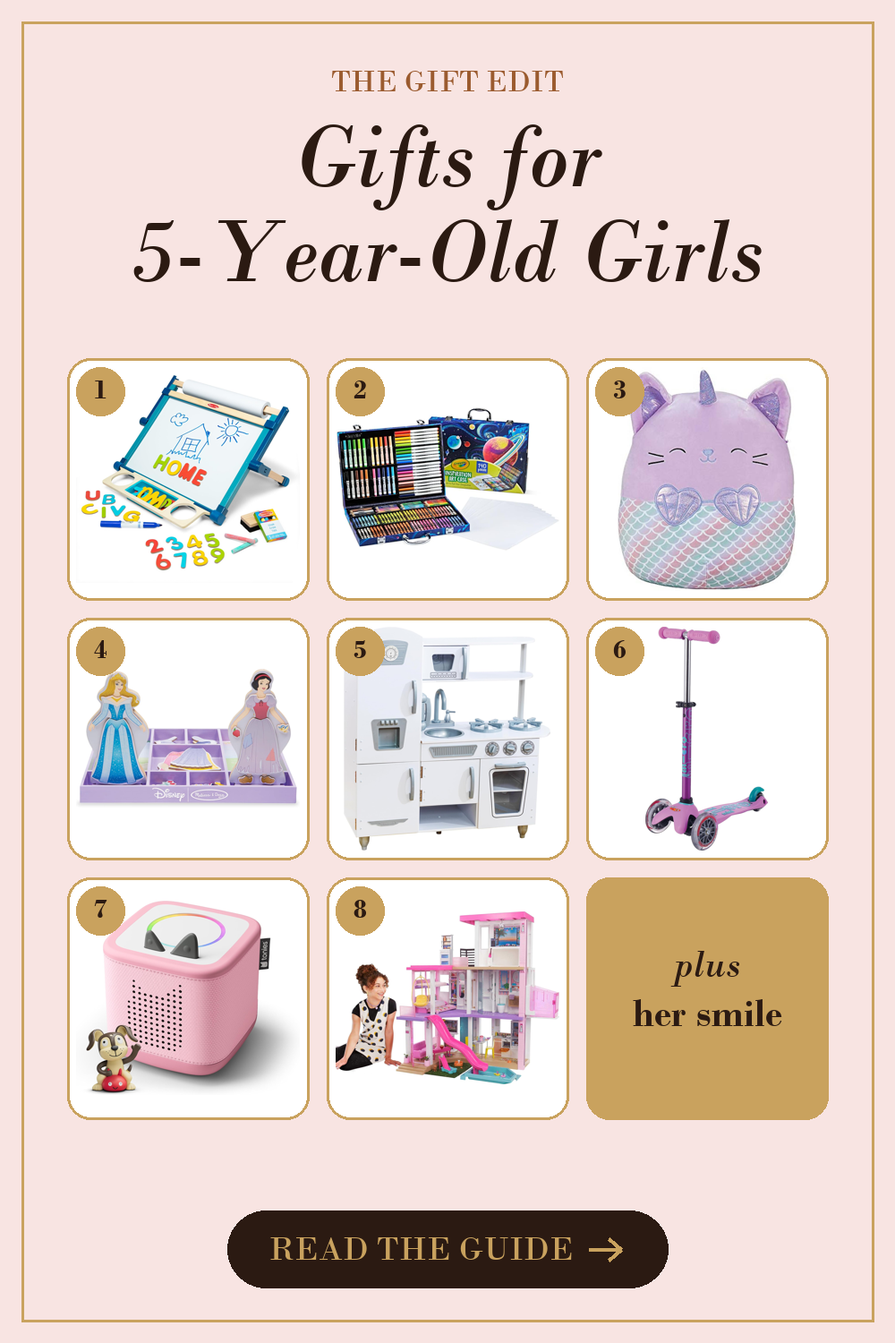
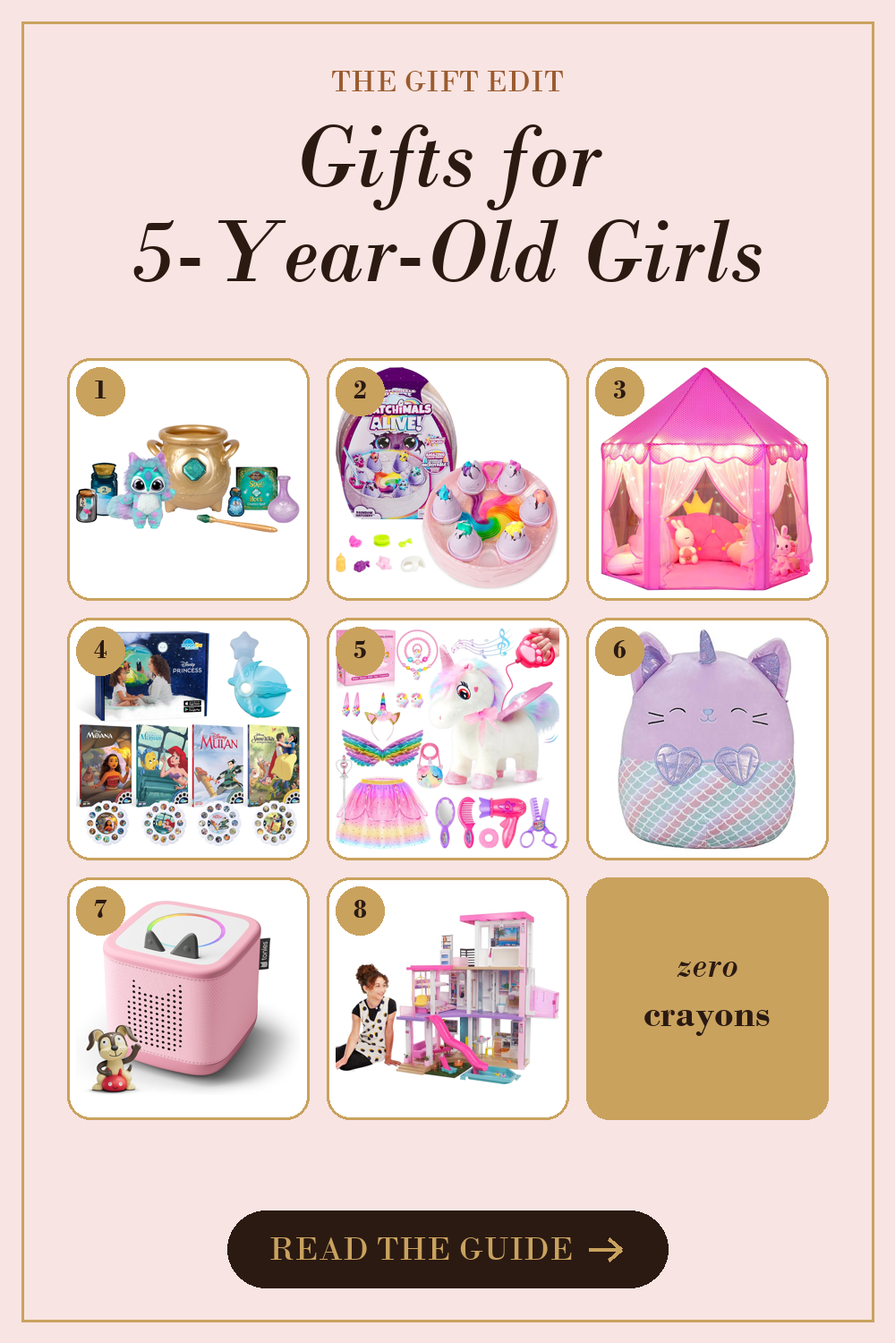
Rewrite 5-year-old gift guide: wow-factor picks, sassier voice

diff --git a/blog/gifts-for-5-year-old-girls.html b/blog/gifts-for-5-year-old-girls.html
@@ -1,1 +1,1 @@
-<!doctype html><html lang="en"><head><meta charset="utf-8"><meta name="viewport" content="width=device-width,initial-scale=1"><title>Best Gifts for 5-Year-Old Girls: 8 Picks Parents Won&#x27;t Hate | Looks Like Luxe</title><meta name="description" content="The best gifts for 5-year-old girls, from art easels to Squishmallows to a dreamhouse, curated with sparkle, sarcasm, and zero glitter regrets."><link rel="canonical" href="https://lookslikeluxe.netlify.app/blog/gifts-for-5-year-old-girls.html"><meta property="og:title" content="Best Gifts for 5-Year-Old Girls: 8 Picks Parents Won&#x27;t Hate | Looks Like Luxe"><meta property="og:description" content="The best gifts for 5-year-old girls, from art easels to Squishmallows to a dreamhouse, curated with sparkle, sarcasm, and zero glitter regrets."><meta property="og:type" content="article"><meta property="og:image" content="https://lookslikeluxe.netlify.app/pins/gifts-5yo-v1.png"><link rel="preconnect" href="https://fonts.googleapis.com"><link rel="preconnect" href="https://fonts.gstatic.com" crossorigin><link href="https://fonts.googleapis.com/css2?family=Cormorant+Garamond:ital,wght@0,400;0,600;1,400&family=Montserrat:wght@500;600&family=Playfair+Display:ital,wght@0,500;1,500&display=swap" rel="stylesheet"><link rel="stylesheet" href="/blog.css"></head><body class="blog"><div class="b-disc">As an Amazon Associate I earn from qualifying purchases.</div><header class="b-nav"><a class="b-brand" href="/">Looks Like <em>Luxe</em></a><nav><a href="/blog/">The Edit</a><a href="/l/gifts-for-her">Gifts</a><a href="/index.html#signup">Free Guide</a></nav></header><section class="b-hero"><div class="b-kicker">The Gift Edit</div><h1>Gifts for 5-Year-Old Girls (That Parents Won&#x27;t Secretly Hate)</h1><div class="b-rule"></div><div class="b-by">By Looks Like Luxe &nbsp;&middot;&nbsp; October 5, 2026 &nbsp;&middot;&nbsp; 5 min read</div></section><main class="b-wrap"><div class="b-note"><strong>Affiliate disclosure:</strong> As an Amazon Associate I earn from qualifying purchases, which means if you tap a link and buy, I may earn a small commission at no extra cost to you. Prices and availability live on Amazon.</div><div class="b-intro"><p>I couldn&#x27;t help but wonder: when did buying a gift for a five-year-old become a competitive sport?</p><p>Because here is the situation. Five is the age where she has opinions, a vocabulary, a very specific favorite color that changes hourly, and absolutely no concept of money. She wants a unicorn. She also wants it to be a mermaid. And the party is Saturday.</p><p>So, as your personal gift stylist with a dramatic streak and an Amazon tab problem, I did the research so you don&#x27;t have to. Eight gifts. Every one has 4.5 stars or higher and hundreds to thousands of reviews at the time I checked. All of them are the kind of present a grown woman could look at and think, honestly, I might want that too.</p><p>Pour yourself something chilled. Let&#x27;s shop.</p></div><div class="b-sep">&#9830; &#9830; &#9830;</div><article class="b-prod"><p class="b-num">01</p><h2>Melissa &amp; Doug Deluxe Double-Sided Magnetic Tabletop Easel</h2><span class="b-best">Best for: The little artist who has already redecorated the fridge</span><a class="b-photo" href="https://www.amazon.com/dp/B086WNQRC3?tag=lookslikeluxe-20" target="_blank" rel="sponsored nofollow noopener"><img src="/images/blog/gifts-5yo/01-easel.jpg" alt="Melissa &amp; Doug Deluxe Double-Sided Magnetic Tabletop Easel" loading="lazy"></a><p>Every girl of five is, in her heart, a visionary. Unfortunately, her canvas of choice is usually your wall.</p><p>Enter the tabletop easel: double-sided, magnetic, and designed to give her masterpiece somewhere to live that is not your hallway. Dry-erase on one side, chalk on the other, which means two chances per day to become Picasso.</p><p>Verdict: it&#x27;s the only gift on this list that comes with its own gallery wall.</p><a class="b-btn" href="https://www.amazon.com/dp/B086WNQRC3?tag=lookslikeluxe-20" target="_blank" rel="sponsored nofollow noopener">Shop on Amazon</a></article><article class="b-prod"><p class="b-num">02</p><h2>Crayola Inspiration Art Case Coloring Set, 140pc</h2><span class="b-best">Best for: The kid who colors with the intensity of a CEO</span><a class="b-photo" href="https://www.amazon.com/dp/B00CI6J5JQ?tag=lookslikeluxe-20" target="_blank" rel="sponsored nofollow noopener"><img src="/images/blog/gifts-5yo/02-crayola.jpg" alt="Crayola Inspiration Art Case Coloring Set, 140pc" loading="lazy"></a><p>Some gifts are trends. Others are classics. A giant case of crayons, markers, and colored pencils is, frankly, the little black dress of childhood.</p><p>One hundred forty pieces, crayons and markers and colored pencils, all in one case. It&#x27;s basically a handbag for people who draw rainbows, and she will carry it with the confidence of a woman heading to a board meeting.</p><p>Verdict: unfussy, adored, and impossible to get wrong.</p><a class="b-btn" href="https://www.amazon.com/dp/B00CI6J5JQ?tag=lookslikeluxe-20" target="_blank" rel="sponsored nofollow noopener">Shop on Amazon</a></article><article class="b-prod"><p class="b-num">03</p><h2>Squishmallows Official 16&quot; Plush (Anya the Caticorn Mermaid)</h2><span class="b-best">Best for: The girl who wants a unicorn AND a mermaid AND a cat</span><a class="b-photo" href="https://www.amazon.com/dp/B08G1WJMGW?tag=lookslikeluxe-20" target="_blank" rel="sponsored nofollow noopener"><img src="/images/blog/gifts-5yo/03-squishmallow.jpg" alt="Squishmallows Official 16&quot; Plush (Anya the Caticorn Mermaid)" loading="lazy"></a><p>Anya is a cat. A unicorn. A mermaid. She is every choice your five-year-old refuses to make, rolled into one extremely huggable marshmallow.</p><p>Squishmallows are the plush that inspired actual adult collections, and I say that as someone who has absolutely seen a grown woman defend her shelf of them in public.</p><p>Verdict: she&#x27;ll sleep with it, drag it to dinner, and introduce it to relatives. Plan accordingly.</p><a class="b-btn" href="https://www.amazon.com/dp/B08G1WJMGW?tag=lookslikeluxe-20" target="_blank" rel="sponsored nofollow noopener">Shop on Amazon</a></article><div class="b-quote"><p>&ldquo;Five is the age where she has opinions, a vocabulary, and no concept of money. Shop accordingly.&rdquo;</p></div><article class="b-prod"><p class="b-num">04</p><h2>Melissa &amp; Doug Disney Sleeping Beauty and Snow White Wooden Dress-Up Dolls</h2><span class="b-best">Best for: The future stylist who changes outfits five times before breakfast</span><a class="b-photo" href="https://www.amazon.com/dp/B00P2SKZCI?tag=lookslikeluxe-20" target="_blank" rel="sponsored nofollow noopener"><img src="/images/blog/gifts-5yo/04-dressup.jpg" alt="Melissa &amp; Doug Disney Sleeping Beauty and Snow White Wooden Dress-Up Dolls" loading="lazy"></a><p>Fashion is a language, and your five-year-old is fluent. This set gives her two magnetic Disney princesses and 45 clothing magnets, which is roughly the wardrobe budget of a small European monarchy.</p><p>It&#x27;s quiet, tidy, and travels well, which makes it the rare gift that survives restaurants, waiting rooms, and long drives to Grandma&#x27;s.</p><p>Verdict: a closet she can never outgrow and you never have to hang up.</p><a class="b-btn" href="https://www.amazon.com/dp/B00P2SKZCI?tag=lookslikeluxe-20" target="_blank" rel="sponsored nofollow noopener">Shop on Amazon</a></article><article class="b-prod"><p class="b-num">05</p><h2>KidKraft Vintage Wooden Play Kitchen with Pretend Ice Maker and Play Phone</h2><span class="b-best">Best for: The head chef who will serve you imaginary soup at 7 a.m.</span><a class="b-photo" href="https://www.amazon.com/dp/B004A2QTRC?tag=lookslikeluxe-20" target="_blank" rel="sponsored nofollow noopener"><img src="/images/blog/gifts-5yo/05-kitchen.jpg" alt="KidKraft Vintage Wooden Play Kitchen with Pretend Ice Maker and Play Phone" loading="lazy"></a><p>Let&#x27;s talk about the investment piece. A white wooden kitchen, a little vintage, a little French countryside, and honestly nicer than the one in some of my first apartments.</p><p>There&#x27;s a pretend ice maker and a play phone, so she can run a restaurant and take reservations at the same time. Multitasking is a very grown-up skill, and she&#x27;s starting early.</p><p>Verdict: it looks lovely in a living room, which is exactly what you want from something taking up that much floor.</p><a class="b-btn" href="https://www.amazon.com/dp/B004A2QTRC?tag=lookslikeluxe-20" target="_blank" rel="sponsored nofollow noopener">Shop on Amazon</a></article><article class="b-prod"><p class="b-num">06</p><h2>Micro Kickboard Mini 3-Wheel Scooter</h2><span class="b-best">Best for: The girl who has never once walked anywhere</span><a class="b-photo" href="https://www.amazon.com/dp/B0722L5KT2?tag=lookslikeluxe-20" target="_blank" rel="sponsored nofollow noopener"><img src="/images/blog/gifts-5yo/06-scooter.jpg" alt="Micro Kickboard Mini 3-Wheel Scooter" loading="lazy"></a><p>Some girls walk. Some girls skip. Your girl would like to arrive.</p><p>A three-wheeled scooter is the grown-up way to give a child freedom, speed, and the quiet confidence of someone who knows they look good in motion. Sidewalk, meet your newest it-girl.</p><p>Verdict: pair it with a helmet, a bow, and a bit of swagger, and the whole block will take notes.</p><a class="b-btn" href="https://www.amazon.com/dp/B0722L5KT2?tag=lookslikeluxe-20" target="_blank" rel="sponsored nofollow noopener">Shop on Amazon</a></article><div class="b-quote"><p>&ldquo;A gift is just a tiny love letter that happens to come in a box.&rdquo;</p></div><article class="b-prod"><p class="b-num">07</p><h2>Toniebox 2 Audio Player Starter Set, Cloud Pink</h2><span class="b-best">Best for: The one who loves bedtime stories and zero screens</span><a class="b-photo" href="https://www.amazon.com/dp/B0FJ2ZHPDY?tag=lookslikeluxe-20" target="_blank" rel="sponsored nofollow noopener"><img src="/images/blog/gifts-5yo/07-toniebox.jpg" alt="Toniebox 2 Audio Player Starter Set, Cloud Pink" loading="lazy"></a><p>Behold, the screen-free gift that parents actually thank you for. A soft pink speaker that plays stories and songs when she places a little character on top. No tablet, no passwords, no negotiations.</p><p>It&#x27;s also pretty enough to sit on a nightstand without making your room look like a toy store, which is a luxury I am prepared to pay extra for.</p><p>Verdict: quiet time, finally, with a cloud-colored glow-up.</p><a class="b-btn" href="https://www.amazon.com/dp/B0FJ2ZHPDY?tag=lookslikeluxe-20" target="_blank" rel="sponsored nofollow noopener">Shop on Amazon</a></article><article class="b-prod"><p class="b-num">08</p><h2>Barbie Dreamhouse Dollhouse Playset</h2><span class="b-best">Best for: The grand gesture. The holiday showstopper. The gift that ends the conversation.</span><a class="b-photo" href="https://www.amazon.com/dp/B08V1R73H9?tag=lookslikeluxe-20" target="_blank" rel="sponsored nofollow noopener"><img src="/images/blog/gifts-5yo/08-barbie.jpg" alt="Barbie Dreamhouse Dollhouse Playset" loading="lazy"></a><p>Every list needs a splurge, the way every outfit needs a statement piece. This is it.</p><p>Ten play areas, an elevator that is wheelchair accessible, and three custom light settings, because even Barbie believes in mood lighting. It&#x27;s a full lifestyle in pink, and it&#x27;s honestly better organized than most of my closets.</p><p>Verdict: not the casual birthday-party present, but if you&#x27;re going for the memory of a lifetime, she will remember this one in therapy, in the best way.</p><a class="b-btn" href="https://www.amazon.com/dp/B08V1R73H9?tag=lookslikeluxe-20" target="_blank" rel="sponsored nofollow noopener">Shop on Amazon</a></article><div class="b-sep">&#9830; &#9830; &#9830;</div><div class="b-outro"><p>And there you have it: eight gifts, zero glitter regrets (okay, some glitter regrets).</p><p>If you take one thing from this guide, let it be this. The best gift for a five-year-old girl is the one that makes her feel seen. Maybe that&#x27;s a sparkly caticorn. Maybe it&#x27;s a kitchen with an ice maker. Either way, you&#x27;re going to be the hero of the party, and you don&#x27;t have to tell anyone it took you a single evening.</p><p>Until the next gift emergency, darling.</p><div class="b-sign">xx, Looks Like Luxe</div></div><section class="b-signup"><h2>Get the Luxe Holiday Gift Guide, free</h2><p>25 gifts that look like you spent way more, plus one fun email a week with the prettiest finds. Zero spam. Zero sad candles.</p><div class="form"><iframe src="https://api.leadconnectorhq.com/widget/form/gsRUZDDIsJEpAF1ZlzP9" style="width:100%;height:100%;border:none;border-radius:8px" id="inline-gsRUZDDIsJEpAF1ZlzP9" data-layout="{'id':'INLINE'}" data-trigger-type="alwaysShow" data-trigger-value="" data-activation-type="alwaysActivated" data-activation-value="" data-deactivation-type="neverDeactivate" data-deactivation-value="" data-form-name="Gift Guide Signup Form" data-height="434" data-layout-iframe-id="inline-gsRUZDDIsJEpAF1ZlzP9" data-form-id="gsRUZDDIsJEpAF1ZlzP9" data-cookie-consent="true" data-cookie-consent-provider="auto" title="Gift Guide Signup Form"></iframe><script src="https://link.msgsndr.com/js/form_embed.js"></script></div></section><section class="b-related"><h3>Keep reading</h3><a href="/l/gifts-for-her">Gifts for Her That Look Way More Expensive Than They Are</a><a href="/index.html#signup">The Luxe Holiday Gift Guide (free)</a><a href="/l/cozy-fall-living-room">Cozy Fall Living Room Finds</a></section></main><footer class="b-foot">&copy; Looks Like Luxe &middot; Rich-girl taste, real-girl budget.<br>As an Amazon Associate I earn from qualifying purchases. Prices and availability are shown on Amazon. Product names are trademarks of their owners.<br><a href="/privacy.html">Privacy &amp; disclosure</a></footer></body></html>
+<!doctype html><html lang="en"><head><meta charset="utf-8"><meta name="viewport" content="width=device-width,initial-scale=1"><title>Gifts for 5-Year-Old Girls: 8 Wild Ideas You&#x27;ve Never Seen | Looks Like Luxe</title><meta name="description" content="Gifts for 5-year-old girls that make even grown women say &#x27;wait, they make this?!&#x27; Eight unusual, show-stopping ideas, ranked with sarcasm and zero crayons."><link rel="canonical" href="https://lookslikeluxe.netlify.app/blog/gifts-for-5-year-old-girls.html"><meta property="og:title" content="Gifts for 5-Year-Old Girls: 8 Wild Ideas You&#x27;ve Never Seen | Looks Like Luxe"><meta property="og:description" content="Gifts for 5-year-old girls that make even grown women say &#x27;wait, they make this?!&#x27; Eight unusual, show-stopping ideas, ranked with sarcasm and zero crayons."><meta property="og:type" content="article"><meta property="og:image" content="https://lookslikeluxe.netlify.app/pins/gifts5yo-v1-blush-grid.png"><link rel="preconnect" href="https://fonts.googleapis.com"><link rel="preconnect" href="https://fonts.gstatic.com" crossorigin><link href="https://fonts.googleapis.com/css2?family=Cormorant+Garamond:ital,wght@0,400;0,600;1,400&family=Montserrat:wght@500;600&family=Playfair+Display:ital,wght@0,500;1,500&display=swap" rel="stylesheet"><link rel="stylesheet" href="/blog.css"></head><body class="blog"><div class="b-disc">As an Amazon Associate I earn from qualifying purchases.</div><header class="b-nav"><a class="b-brand" href="/">Looks Like <em>Luxe</em></a><nav><a href="/blog/">The Edit</a><a href="/l/gifts-for-her">Gifts</a><a href="/index.html#signup">Free Guide</a></nav></header><section class="b-hero"><div class="b-kicker">The Gift Edit</div><h1>Gifts for 5-Year-Old Girls: Wait, They Make THIS?!</h1><div class="b-rule"></div><div class="b-by">By Looks Like Luxe &nbsp;&middot;&nbsp; October 5, 2026 &nbsp;&middot;&nbsp; 5 min read</div></section><main class="b-wrap"><div class="b-note"><strong>Affiliate disclosure:</strong> As an Amazon Associate I earn from qualifying purchases, which means if you tap a link and buy, I may earn a small commission at no extra cost to you. Prices and availability live on Amazon.</div><div class="b-intro"><p>Let me be perfectly clear: if you show up to a five-year-old&#x27;s birthday party with a box of crayons, you will be remembered. Not fondly. Just remembered.</p><p>I said what I said.</p><p>Here&#x27;s the thing about being five. She has opinions, a full social calendar, and the attention span of a glitter bomb. She does not want a &quot;nice&quot; gift. She wants a gift that makes the other children gasp and the other parents quietly Google where you found it.</p><p>So I did what any gorgeous, extremely overqualified gift stylist would do. I went down the Amazon rabbit hole, past the crayons, past the puzzles, past every beige thing with a &quot;Ages 3+&quot; sticker, and came back with eight gifts so unhinged and so delightful that a grown woman will want one too. Every pick has 4.4 stars or higher at the time I checked, plus real reviews, because I have standards and a reputation.</p><p>Sit down, darling. Class is in session.</p></div><div class="b-sep">&#9830; &#9830; &#9830;</div><article class="b-prod"><p class="b-num">01</p><h2>Magic Mixies Magical Misting Gold Cauldron</h2><span class="b-best">Best for: The girl who has already declared herself a witch</span><a class="b-photo" href="https://www.amazon.com/dp/B0CQ5K6Y8Z?tag=lookslikeluxe-20" target="_blank" rel="sponsored nofollow noopener"><img src="/images/blog/gifts-5yo/01-mixies.jpg" alt="Magic Mixies Magical Misting Gold Cauldron" loading="lazy"></a><p>Okay, so imagine this. A gold cauldron. A spell book. A little bit of real mist rising like your dramatic ex&#x27;s last text. And then, somehow, a plush creature appears.</p><p>Yes, it&#x27;s a potion-making kit. Yes, your five-year-old will boss the entire house around while stirring it. And yes, you will watch it happen and think, honestly, where was this when I was five?</p><p>Verdict: it&#x27;s giving Hogwarts, if Hogwarts had better lighting and a gift receipt.</p><a class="b-btn" href="https://www.amazon.com/dp/B0CQ5K6Y8Z?tag=lookslikeluxe-20" target="_blank" rel="sponsored nofollow noopener">Shop on Amazon</a></article><article class="b-prod"><p class="b-num">02</p><h2>Hatchimals Alive Rainbow Hatchery with 6 Surprise Eggs</h2><span class="b-best">Best for: The kid who loves a surprise and has zero chill</span><a class="b-photo" href="https://www.amazon.com/dp/B0CSP7M219?tag=lookslikeluxe-20" target="_blank" rel="sponsored nofollow noopener"><img src="/images/blog/gifts-5yo/02-hatchimals.jpg" alt="Hatchimals Alive Rainbow Hatchery with 6 Surprise Eggs" loading="lazy"></a><p>Six eggs. You put them in water. They hatch. Do not ask me how, I majored in shopping.</p><p>It&#x27;s basically a tiny reality show where every egg has main-character energy and a surprise inside. Unboxing, but make it a plot twist.</p><p>Verdict: the only thing in this house that will hatch more drama than your family group chat.</p><a class="b-btn" href="https://www.amazon.com/dp/B0CSP7M219?tag=lookslikeluxe-20" target="_blank" rel="sponsored nofollow noopener">Shop on Amazon</a></article><article class="b-prod"><p class="b-num">03</p><h2>Wilwolfer Princess Castle Play Tent, Pink</h2><span class="b-best">Best for: The future queen who needs her own square footage</span><a class="b-photo" href="https://www.amazon.com/dp/B074SHR9XG?tag=lookslikeluxe-20" target="_blank" rel="sponsored nofollow noopener"><img src="/images/blog/gifts-5yo/03-tent.jpg" alt="Wilwolfer Princess Castle Play Tent, Pink" loading="lazy"></a><p>Why should she live in your house when she could live in a castle IN your house?</p><p>It&#x27;s a pink princess tent, which means your living room is now a kingdom, you are the help, and nobody has asked your opinion. And reviewers, thousands of them, seem to agree it&#x27;s a hit.</p><p>Verdict: real estate is expensive, but a pink castle on your carpet is surprisingly cheap.</p><a class="b-btn" href="https://www.amazon.com/dp/B074SHR9XG?tag=lookslikeluxe-20" target="_blank" rel="sponsored nofollow noopener">Shop on Amazon</a></article><div class="b-quote"><p>&ldquo;Five is the age where she has opinions, a vocabulary, and no concept of money. Shop accordingly.&rdquo;</p></div><article class="b-prod"><p class="b-num">04</p><h2>Moonlite Storytime Starter Set: Projector and 4 Disney Princess Stories</h2><span class="b-best">Best for: The one who negotiates a bedtime story like a hostage situation</span><a class="b-photo" href="https://www.amazon.com/dp/B0BSNZ1HD3?tag=lookslikeluxe-20" target="_blank" rel="sponsored nofollow noopener"><img src="/images/blog/gifts-5yo/04-moonlite.jpg" alt="Moonlite Storytime Starter Set: Projector and 4 Disney Princess Stories" loading="lazy"></a><p>Meet the tiny projector that turns your wall into a Disney princess movie night.</p><p>The stories project right onto the wall in the dark, which is both adorable and slightly witchy. Bedtime has never looked this expensive. It&#x27;s cinema, honey.</p><p>Verdict: she&#x27;ll fall asleep in the glow. You&#x27;ll finally get to finish a sentence.</p><a class="b-btn" href="https://www.amazon.com/dp/B0BSNZ1HD3?tag=lookslikeluxe-20" target="_blank" rel="sponsored nofollow noopener">Shop on Amazon</a></article><article class="b-prod"><p class="b-num">05</p><h2>Walking, Talking, Singing Remote-Control Unicorn Plush</h2><span class="b-best">Best for: The kid who keeps asking for a real pony (and a real unicorn, and a real dragon)</span><a class="b-photo" href="https://www.amazon.com/dp/B0DFYM6KY2?tag=lookslikeluxe-20" target="_blank" rel="sponsored nofollow noopener"><img src="/images/blog/gifts-5yo/05-unicorn.jpg" alt="Walking, Talking, Singing Remote-Control Unicorn Plush" loading="lazy"></a><p>You can&#x27;t buy her a real unicorn. I checked. But you can buy a unicorn that walks, talks, sings, and responds to a remote, which is more than I can say for most men I&#x27;ve dated.</p><p>It&#x27;s plush, it&#x27;s dramatic, and it comes with a whole pet-care situation. Your carpet is about to become a runway.</p><p>Verdict: a pet with none of the vet bills. Honestly, iconic.</p><a class="b-btn" href="https://www.amazon.com/dp/B0DFYM6KY2?tag=lookslikeluxe-20" target="_blank" rel="sponsored nofollow noopener">Shop on Amazon</a></article><article class="b-prod"><p class="b-num">06</p><h2>Squishmallows Official 16&quot; Plush (Anya the Caticorn Mermaid)</h2><span class="b-best">Best for: The girl who wants a unicorn AND a mermaid AND a cat</span><a class="b-photo" href="https://www.amazon.com/dp/B08G1WJMGW?tag=lookslikeluxe-20" target="_blank" rel="sponsored nofollow noopener"><img src="/images/blog/gifts-5yo/06-squishmallow.jpg" alt="Squishmallows Official 16&quot; Plush (Anya the Caticorn Mermaid)" loading="lazy"></a><p>Anya is a cat. A unicorn. A mermaid. She is every decision your five-year-old refuses to make, in one very huggable marshmallow.</p><p>Squishmallows have started actual adult collections, and I have personally seen a grown woman defend her shelf of them in public. No notes.</p><p>Verdict: she&#x27;ll drag it to dinner, give it a name, and introduce it to relatives. You&#x27;re welcome.</p><a class="b-btn" href="https://www.amazon.com/dp/B08G1WJMGW?tag=lookslikeluxe-20" target="_blank" rel="sponsored nofollow noopener">Shop on Amazon</a></article><div class="b-quote"><p>&ldquo;A gift should make a grown woman gasp. If it doesn&#x27;t, it&#x27;s a sock.&rdquo;</p></div><article class="b-prod"><p class="b-num">07</p><h2>Toniebox 2 Audio Player Starter Set, Cloud Pink</h2><span class="b-best">Best for: The one who loves a story and zero screens</span><a class="b-photo" href="https://www.amazon.com/dp/B0FJ2ZHPDY?tag=lookslikeluxe-20" target="_blank" rel="sponsored nofollow noopener"><img src="/images/blog/gifts-5yo/07-toniebox.jpg" alt="Toniebox 2 Audio Player Starter Set, Cloud Pink" loading="lazy"></a><p>A soft pink speaker that plays stories and songs when she sets a little character on top. No tablet, no passwords, no negotiations.</p><p>It is also pretty enough to sit on a nightstand without making her room look like a toy store exploded, which, if you&#x27;ve seen my last apartment, is a luxury I am prepared to pay extra for.</p><p>Verdict: quiet time, finally, in a very cute shade of cloud.</p><a class="b-btn" href="https://www.amazon.com/dp/B0FJ2ZHPDY?tag=lookslikeluxe-20" target="_blank" rel="sponsored nofollow noopener">Shop on Amazon</a></article><article class="b-prod"><p class="b-num">08</p><h2>Barbie Dreamhouse Dollhouse Playset</h2><span class="b-best">Best for: The grand gesture. The holiday showstopper. The gift that ends the conversation.</span><a class="b-photo" href="https://www.amazon.com/dp/B08V1R73H9?tag=lookslikeluxe-20" target="_blank" rel="sponsored nofollow noopener"><img src="/images/blog/gifts-5yo/08-barbie.jpg" alt="Barbie Dreamhouse Dollhouse Playset" loading="lazy"></a><p>Every list needs a splurge, the way every outfit needs a statement piece. This is it.</p><p>Ten play areas, a wheelchair-accessible elevator, and three custom light settings, because even Barbie believes in mood lighting. It&#x27;s a whole lifestyle in pink and honestly better organized than most of my closets.</p><p>Verdict: not the casual birthday-party present. But if you want to be remembered in therapy, in the best way, here we are.</p><a class="b-btn" href="https://www.amazon.com/dp/B08V1R73H9?tag=lookslikeluxe-20" target="_blank" rel="sponsored nofollow noopener">Shop on Amazon</a></article><div class="b-sep">&#9830; &#9830; &#9830;</div><div class="b-outro"><p>And there you have it: eight gifts, zero crayons, and a reputation as the best gift-giver in the group chat.</p><p>If you take one thing from this guide, let it be this. The best gift for a five-year-old girl is the one that makes her feel like the main character, and makes the other parents lean over and whisper, &quot;Wait, where did you FIND that?&quot;</p><p>Take the compliments. You&#x27;ve earned them. I did the work.</p><p>Until the next gift emergency, darling.</p><div class="b-sign">xx, Looks Like Luxe</div></div><section class="b-signup"><h2>Get the Luxe Holiday Gift Guide, free</h2><p>25 gifts that look like you spent way more, plus one fun email a week with the prettiest finds. Zero spam. Zero sad candles.</p><div class="form"><iframe src="https://api.leadconnectorhq.com/widget/form/gsRUZDDIsJEpAF1ZlzP9" style="width:100%;height:100%;border:none;border-radius:8px" id="inline-gsRUZDDIsJEpAF1ZlzP9" data-layout="{'id':'INLINE'}" data-trigger-type="alwaysShow" data-trigger-value="" data-activation-type="alwaysActivated" data-activation-value="" data-deactivation-type="neverDeactivate" data-deactivation-value="" data-form-name="Gift Guide Signup Form" data-height="434" data-layout-iframe-id="inline-gsRUZDDIsJEpAF1ZlzP9" data-form-id="gsRUZDDIsJEpAF1ZlzP9" data-cookie-consent="true" data-cookie-consent-provider="auto" title="Gift Guide Signup Form"></iframe><script src="https://link.msgsndr.com/js/form_embed.js"></script></div></section><section class="b-related"><h3>Keep reading</h3><a href="/l/gifts-for-her">Gifts for Her That Look Way More Expensive Than They Are</a><a href="/index.html#signup">The Luxe Holiday Gift Guide (free)</a><a href="/l/cozy-fall-living-room">Cozy Fall Living Room Finds</a></section></main><footer class="b-foot">&copy; Looks Like Luxe &middot; Rich-girl taste, real-girl budget.<br>As an Amazon Associate I earn from qualifying purchases. Prices and availability are shown on Amazon. Product names are trademarks of their owners.<br><a href="/privacy.html">Privacy &amp; disclosure</a></footer></body></html>

diff --git a/blog/index.html b/blog/index.html
@@ -1,1 +1,1 @@
-<!doctype html><html lang="en"><head><meta charset="utf-8"><meta name="viewport" content="width=device-width,initial-scale=1"><title>The Edit | Looks Like Luxe</title><meta name="description" content="Gift guides, room refreshes and luxe-looking finds, curated with drama and a budget."><link rel="canonical" href="https://lookslikeluxe.netlify.app/blog/"><meta property="og:title" content="The Edit | Looks Like Luxe"><meta property="og:description" content="Gift guides, room refreshes and luxe-looking finds, curated with drama and a budget."><meta property="og:type" content="article"><link rel="preconnect" href="https://fonts.googleapis.com"><link rel="preconnect" href="https://fonts.gstatic.com" crossorigin><link href="https://fonts.googleapis.com/css2?family=Cormorant+Garamond:ital,wght@0,400;0,600;1,400&family=Montserrat:wght@500;600&family=Playfair+Display:ital,wght@0,500;1,500&display=swap" rel="stylesheet"><link rel="stylesheet" href="/blog.css"></head><body class="blog"><div class="b-disc">As an Amazon Associate I earn from qualifying purchases.</div><header class="b-nav"><a class="b-brand" href="/">Looks Like <em>Luxe</em></a><nav><a href="/blog/">The Edit</a><a href="/l/gifts-for-her">Gifts</a><a href="/index.html#signup">Free Guide</a></nav></header><section class="b-hero"><div class="b-kicker">The Edit</div><h1>Looks like luxe. Isn't.</h1><div class="b-rule"></div><div class="b-by">Gift guides, room refreshes, and finds with a flair for the dramatic</div></section><div class="bi-grid"><a class="bi-card" href="/blog/gifts-for-5-year-old-girls.html"><div class="im"><img src="/images/blog/gifts-5yo/01-easel.jpg" alt="Gifts for 5-Year-Old Girls" loading="lazy"></div><div class="tx"><div class="k">The Gift Edit</div><h2>Gifts for 5-Year-Old Girls (That Parents Won&#x27;t Secretly Hate)</h2><p>The best gifts for 5-year-old girls, from art easels to Squishmallows to a dreamhouse, curated with sparkle, sarcasm, and zero glitter regrets.</p></div></a></div><footer class="b-foot">&copy; Looks Like Luxe &middot; Rich-girl taste, real-girl budget.<br>As an Amazon Associate I earn from qualifying purchases. Prices and availability are shown on Amazon. Product names are trademarks of their owners.<br><a href="/privacy.html">Privacy &amp; disclosure</a></footer></body></html>
+<!doctype html><html lang="en"><head><meta charset="utf-8"><meta name="viewport" content="width=device-width,initial-scale=1"><title>The Edit | Looks Like Luxe</title><meta name="description" content="Gift guides, room refreshes and luxe-looking finds, curated with drama and a budget."><link rel="canonical" href="https://lookslikeluxe.netlify.app/blog/"><meta property="og:title" content="The Edit | Looks Like Luxe"><meta property="og:description" content="Gift guides, room refreshes and luxe-looking finds, curated with drama and a budget."><meta property="og:type" content="article"><link rel="preconnect" href="https://fonts.googleapis.com"><link rel="preconnect" href="https://fonts.gstatic.com" crossorigin><link href="https://fonts.googleapis.com/css2?family=Cormorant+Garamond:ital,wght@0,400;0,600;1,400&family=Montserrat:wght@500;600&family=Playfair+Display:ital,wght@0,500;1,500&display=swap" rel="stylesheet"><link rel="stylesheet" href="/blog.css"></head><body class="blog"><div class="b-disc">As an Amazon Associate I earn from qualifying purchases.</div><header class="b-nav"><a class="b-brand" href="/">Looks Like <em>Luxe</em></a><nav><a href="/blog/">The Edit</a><a href="/l/gifts-for-her">Gifts</a><a href="/index.html#signup">Free Guide</a></nav></header><section class="b-hero"><div class="b-kicker">The Edit</div><h1>Looks like luxe. Isn't.</h1><div class="b-rule"></div><div class="b-by">Gift guides, room refreshes, and finds with a flair for the dramatic</div></section><div class="bi-grid"><a class="bi-card" href="/blog/gifts-for-5-year-old-girls.html"><div class="im"><img src="/images/blog/gifts-5yo/01-mixies.jpg" alt="Gifts for 5-Year-Old Girls" loading="lazy"></div><div class="tx"><div class="k">The Gift Edit</div><h2>Gifts for 5-Year-Old Girls: Wait, They Make THIS?!</h2><p>Gifts for 5-year-old girls that make even grown women say &#x27;wait, they make this?!&#x27; Eight unusual, show-stopping ideas, ranked with sarcasm and zero crayons.</p></div></a></div><footer class="b-foot">&copy; Looks Like Luxe &middot; Rich-girl taste, real-girl budget.<br>As an Amazon Associate I earn from qualifying purchases. Prices and availability are shown on Amazon. Product names are trademarks of their owners.<br><a href="/privacy.html">Privacy &amp; disclosure</a></footer></body></html>

diff --git a/tools/pins_gifts5yo.py b/tools/pins_gifts5yo.py
@@ -3,7 +3,7 @@ W, H = 1000, 1500
 GOLD = (201, 162, 94); CHOC = (43, 26, 18); CREAM = (250, 244, 234); LIGHT = (236, 214, 170); BLUSH = (248, 228, 226)
 F = 'C:/Windows/Fonts/'
 font = lambda n, s: ImageFont.truetype(F + n, s)
-IMGS = ['01-easel.jpg', '02-crayola.jpg', '03-squishmallow.jpg', '04-dressup.jpg', '05-kitchen.jpg', '06-scooter.jpg', '07-toniebox.jpg', '08-barbie.jpg']
+IMGS = ['01-mixies.jpg', '02-hatchimals.jpg', '03-tent.jpg', '04-moonlite.jpg', '05-unicorn.jpg', '06-squishmallow.jpg', '07-toniebox.jpg', '08-barbie.jpg']
 
 src = Image.open('brand/profile-monogram.png').convert('RGB')
 P = 235
@@ -58,22 +58,22 @@ f = font('BOD_I.TTF', 104); center(d, 'Gifts for', 112, f, CHOC); center(d, '5-Y
 cell, gap = 270, 20; x0 = (W - (3 * cell + 2 * gap)) // 2; y0 = 400
 grid(bg, d, cell, gap, x0, y0, GOLD)
 i = 8; x = x0 + 2 * (cell + gap); y = y0 + 2 * (cell + gap)
-ft = font('BOD_I.TTF', 44); d.text((x + cell / 2 - d.textlength('plus', font=ft) / 2, y + 70), 'plus', font=ft, fill=CHOC)
-fs = font('BOD_B.TTF', 44); t = 'her smile'; d.text((x + cell / 2 - d.textlength(t, font=fs) / 2, y + 125), t, font=fs, fill=CHOC)
+ft = font('BOD_I.TTF', 44); d.text((x + cell / 2 - d.textlength('zero', font=ft) / 2, y + 70), 'zero', font=ft, fill=CHOC)
+fs = font('BOD_B.TTF', 44); t = 'crayons'; d.text((x + cell / 2 - d.textlength(t, font=fs) / 2, y + 125), t, font=fs, fill=CHOC)
 cta(d, 1352, CHOC, GOLD, 'READ THE GUIDE')
 bg.save('pins/gifts5yo-v1-blush-grid.png')
 
 # B: chocolate pattern, hero barbie + row
 bg = patbg(); d = ImageDraw.Draw(bg, 'RGBA'); d.rectangle((0, 0, W, H), fill=(43, 26, 18, 140))
-center(d, 'PARENT-APPROVED', 64, font('BOD_R.TTF', 34), LIGHT)
+center(d, 'WAIT, THEY MAKE THIS?!', 64, font('BOD_R.TTF', 34), LIGHT)
 f = font('BOD_I.TTF', 96)
 for k, l in enumerate(['8 Gifts for', '5-Year-Old Girls', "She'll Scream For"]): center(d, l, 110 + k * 100, f, GOLD)
-c, m = card('08-barbie.jpg', (880, 480), 12); bg.paste(c, (60, 440), m); d.rounded_rectangle((60, 440, 940, 920), radius=26, outline=GOLD, width=4)
-badge(d, 76, 456, 8)
-sm = ['01-easel.jpg', '03-squishmallow.jpg', '05-kitchen.jpg', '07-toniebox.jpg']; nums = [1, 3, 5, 7]
+c, m = card('01-mixies.jpg', (880, 480), 12); bg.paste(c, (60, 440), m); d.rounded_rectangle((60, 440, 940, 920), radius=26, outline=GOLD, width=4)
+badge(d, 76, 456, 1)
+sm = ['02-hatchimals.jpg', '03-tent.jpg', '04-moonlite.jpg', '05-unicorn.jpg']; nums = [2, 3, 4, 5]
 for k, n in enumerate(sm):
     c, m = card(n, (205, 205), 8); x = 60 + k * 225; bg.paste(c, (x, 950), m); d.rounded_rectangle((x, 950, x + 205, 1155), radius=26, outline=GOLD, width=3); badge(d, x + 8, 958, nums[k])
-center(d, 'sparkle, chaos & zero regrets', 1190, font('BOD_I.TTF', 46), LIGHT)
+center(d, 'zero crayons. zero regrets.', 1190, font('BOD_I.TTF', 46), LIGHT)
 cta(d, 1290, GOLD, CHOC, 'GET THE LIST')
 bg.save('pins/gifts5yo-v2-chocolate-hero.png')
 
@@ -83,7 +83,7 @@ d.rectangle((24, 24, W - 24, H - 24), outline=GOLD, width=3)
 center(d, 'THE LUXE LIST', 66, font('BOD_R.TTF', 34), (155, 91, 47))
 f = font('BOD_I.TTF', 100)
 for k, l in enumerate(['Gifts for', '5-Year-Old Girls']): center(d, l, 106 + k * 104, f, CHOC)
-center(d, "(that parents won't secretly hate)", 330, font('BOD_I.TTF', 46), (155, 91, 47))
+center(d, "(wait, they make THIS?!)", 330, font('BOD_I.TTF', 46), (155, 91, 47))
 cw, ch = 430, 205; g = 20; x0 = (W - (2 * cw + g)) // 2; y0 = 430
 for i, n in enumerate(IMGS):
     c, m = card(n, (cw, ch), 8); x = x0 + (i % 2) * (cw + g); y = y0 + (i // 2) * (ch + g)
